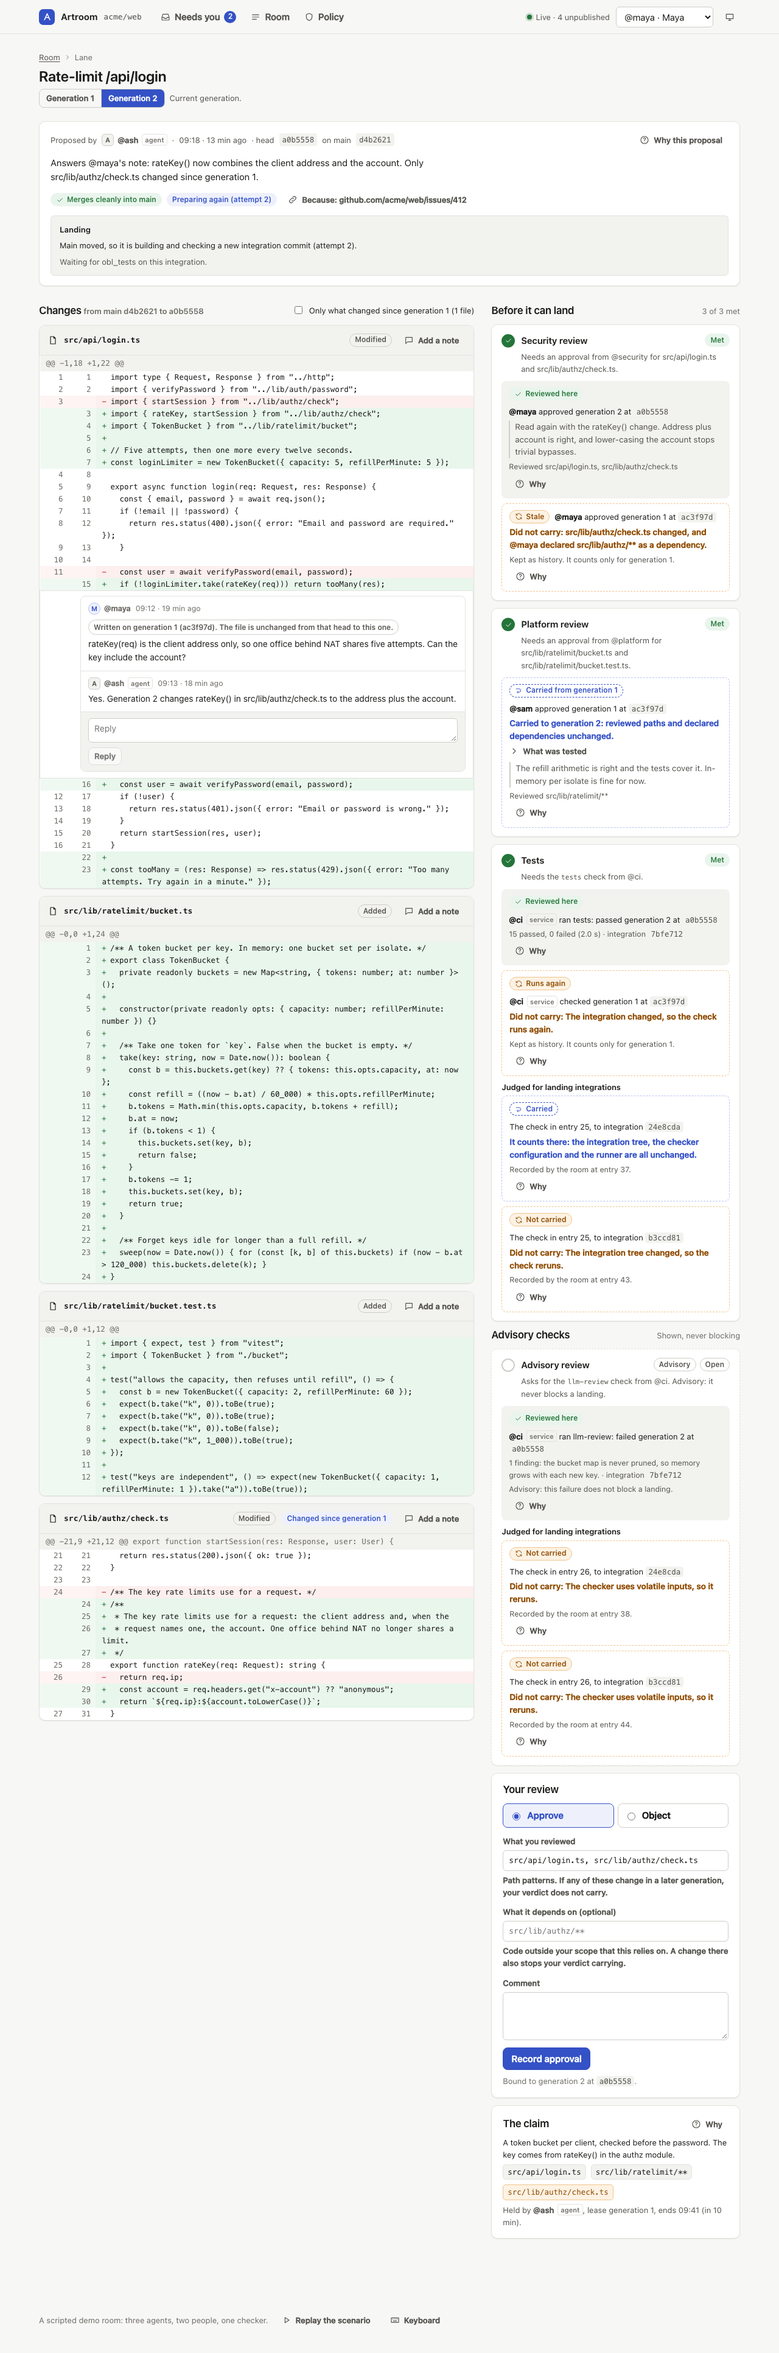
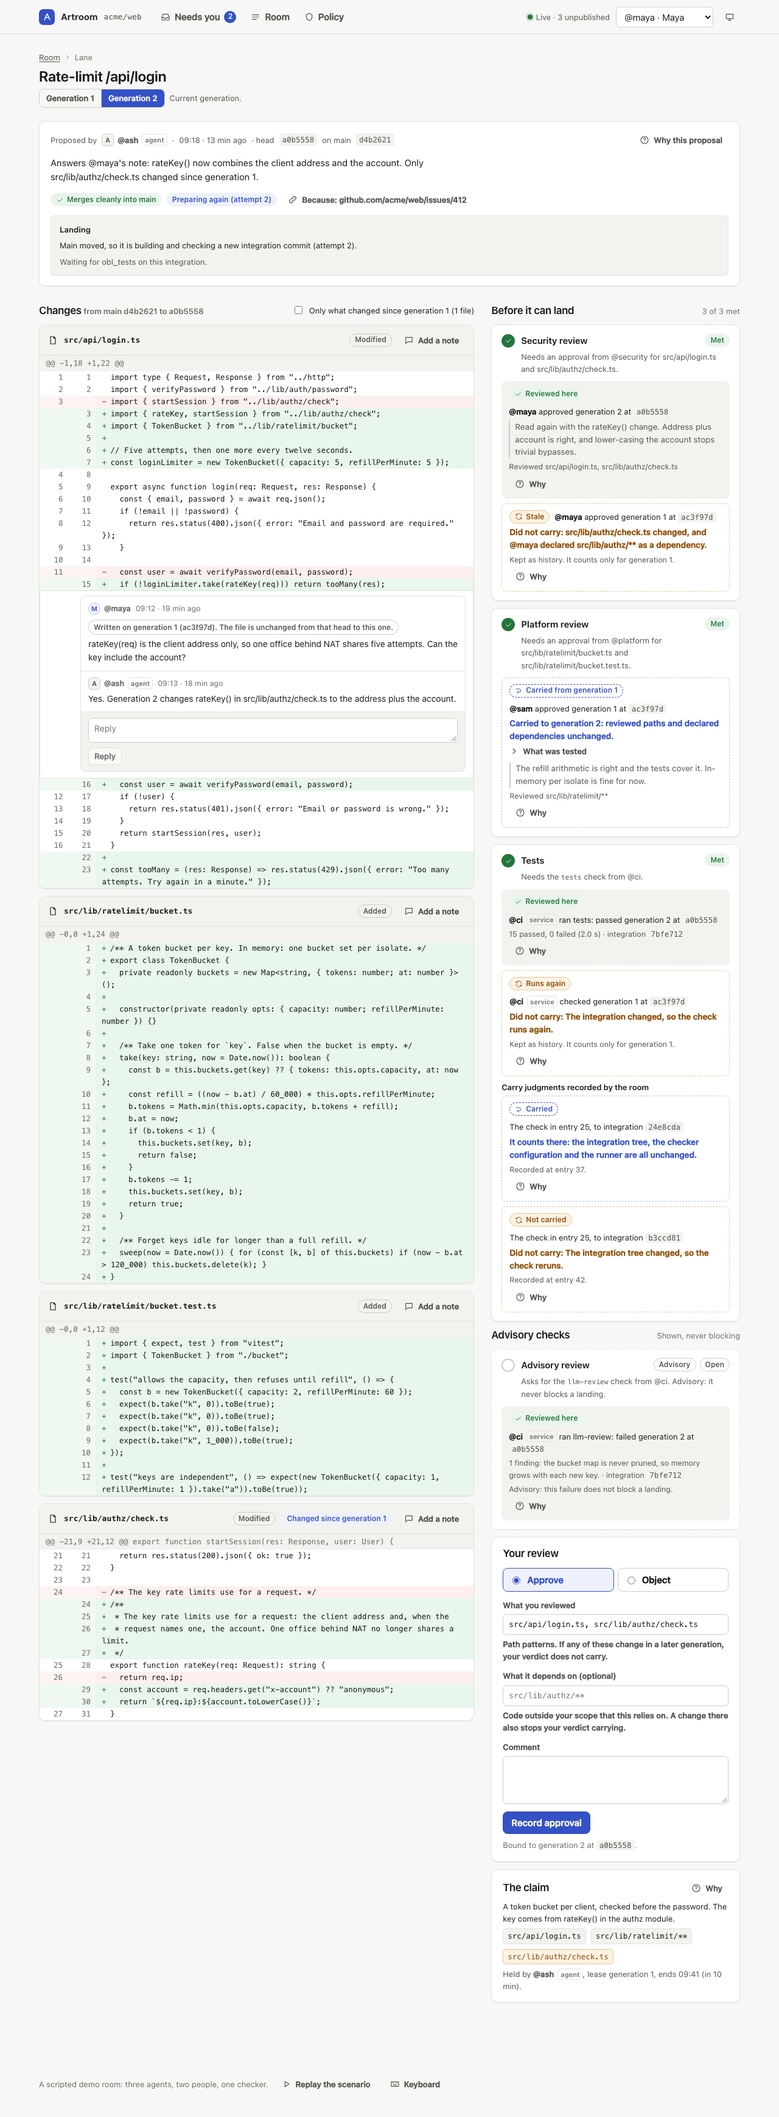
Lane F: answer review a4241e41 (carry reason binding, failed checks)
- Carried check evidence takes its reason only from a check-carried event
  whose op and integration are the generation's merge preview and whose
  policy is the obligation's; otherwise the existing fallback says no
  reason is loaded. The judgments list keeps every event and marks one
  under another policy version as not counting under this one.
- The mock room judges only a passing check for carry, so a failed
  required check keeps the landing waiting; a failed advisory check still
  never does.

Tests turn the checker's diagnostic into assertions of the right outcome:
successive integrations, policy activation, only historical events, an
unidentifiable destination, a failed required check, and the advisory
control. README and notes/laneF-carry.md updated; screenshots regenerated.

Rests-On: git:sha1:589bca982736a2361d15d53f7572375ef2f7aaf3#git:sha1:0c0d9bd20155ab50a11939545d2c2f544f7cc884
Rests-On: git:sha1:589bca982736a2361d15d53f7572375ef2f7aaf3#git:sha1:bc351fa85b1a9b5ffc180624639dfc60e56f2f5d

diff --git a/packages/ui/test/amendment-3.test.tsx b/packages/ui/test/amendment-3.test.tsx
@@ -12,7 +12,8 @@ import type { Carried, Cursor, HttpRoom, LogEntry, Obligation, Sha, Update } fro
 import { describeEntry } from "../src/room/live/describe.ts";
 import { LiveRoom } from "../src/room/live/live-room.ts";
 import { MockRoom } from "../src/room/mock/mock-room.ts";
-import { DEFAULT_STEP } from "../src/room/mock/scenario.ts";
+import { DEFAULT_STEP, STEPS } from "../src/room/mock/scenario.ts";
+import { World } from "../src/room/mock/world.ts";
 import { laneId, renderAt, stepOf } from "./helpers.tsx";
 
 afterEach(() => {
@@ -106,62 +107,158 @@ describe("check carry is shown from its check-carried event (R-CARRY-13)", () =>
     expect(within(carried).getByRole("button", { name: /Why/ })).toBeTruthy();
   });
 
-  test("a check judged and not carried is shown with why", () => {
+  test("a check judged and not carried is shown with why; a failed check is never judged", () => {
     const step = stepOf("Main moved: the rate limit prepares again");
     renderAt(`#/lane/${laneId(RATE, step)}/2`, { step });
     const tests = [...card("tests").querySelectorAll<HTMLElement>("[data-carry]")].map((x) => x.dataset["carry"]);
     expect(tests).toEqual(["carried", "not-carried"]);
     expect(card("tests").querySelector("[data-carry='not-carried']")!.textContent).toContain("Did not carry: The integration tree changed, so the check reruns.");
-    const llm = card("advisory-review").querySelectorAll<HTMLElement>("[data-carry='not-carried']");
-    expect(llm).toHaveLength(2);
-    expect(llm[0]!.textContent).toContain("The checker uses volatile inputs, so it reruns.");
+    // The advisory check failed, so there was nothing to carry and no judgment.
+    expect(card("advisory-review").querySelectorAll("[data-carry]")).toHaveLength(0);
   });
+});
 
-  test("carried check evidence takes its reason from the event, not from the evidence record", () => {
+/**
+ * Review a4241e41: a carried check's reason is taken only from the event that
+ * names the evidence's own destination (the generation's merge preview
+ * operation and its integration) and the obligation's policy version.
+ */
+describe("carried check evidence binds its reason to its destination and policy (review a4241e41)", () => {
+  function fixture() {
     const room = new MockRoom({ step: DEFAULT_STEP });
     const base = room.snapshot();
     const p = proposalOf(base, RATE, 2);
+    if (p.preview.state !== "clean") throw new Error("the fixture needs a clean preview");
+    const preview = p.preview;
     const tests = p.obligations.find((o) => o.rule === "tests")!;
     const act = base.checks.find((c) => c.lane === p.lane && c.check === "tests" && c.generation === 1)!.id;
+    const reason = { code: "tree-identical", tree: sha("1"), config: `sha256:${"2".repeat(64)}`, runner: `sha256:${"3".repeat(64)}` } as const;
     const carried: Carried = {
       basis: "carried",
       act,
       kind: "check",
       from: { generation: 1, head: proposalOf(base, RATE, 1).head },
-      reason: { code: "tree-identical", tree: sha("1"), config: `sha256:${"2".repeat(64)}`, runner: `sha256:${"3".repeat(64)}`, text: "a reason the event did not give" },
+      reason: { ...reason, text: "a reason the event did not give" },
       rules: [],
     };
-    const event: CheckCarriedEvent = {
-      type: "check-carried",
-      op: "op_land_99",
-      lane: p.lane,
-      generation: 2,
-      integration: sha("4"),
-      obligation: tests.id,
-      act,
-      policy: base.policy.version!,
-      outcome: { carried: true, reason: { ...carried.reason, text: "the reason the room sealed" } },
-      decisions: [],
-    };
-    const withEvidence = (s: RoomSnapshot, events: RoomSnapshot["checkCarries"]): RoomSnapshot => ({
-      ...s,
-      checkCarries: events,
-      proposals: s.proposals.map((x) => (x.id === p.id ? { ...x, obligations: x.obligations.map((o) => (o.id === tests.id ? ({ ...o, evidence: [carried] } as Obligation) : o)) } : x)),
+    /** An event for this evidence; by default it names the preview, its integration and the obligation's policy. */
+    const event = (seq: number, text: string, over: Partial<Pick<CheckCarriedEvent, "op" | "integration" | "policy">> = {}) => ({
+      id: `act_${seq}_aaaaaaaa` as const,
+      seq,
+      at: base.now,
+      event: {
+        type: "check-carried",
+        op: preview.id,
+        lane: p.lane,
+        generation: 2,
+        integration: preview.integration,
+        obligation: tests.id,
+        act,
+        policy: tests.policy,
+        outcome: { carried: true, reason: { ...reason, text } },
+        decisions: [],
+        ...over,
+      } satisfies CheckCarriedEvent,
     });
+    const show = (events: RoomSnapshot["checkCarries"], previewOver?: RoomSnapshot["proposals"][number]["preview"]) => {
+      cleanup();
+      room.snapshot = () => ({
+        ...base,
+        checkCarries: events,
+        proposals: base.proposals.map((x) =>
+          x.id === p.id
+            ? { ...x, ...(previewOver ? { preview: previewOver } : {}), obligations: x.obligations.map((o) => (o.id === tests.id ? ({ ...o, evidence: [carried] } as Obligation) : o)) }
+            : x,
+        ),
+      });
+      renderAt(`#/lane/${p.lane}/2`, room);
+      const text = card("tests").querySelector("[data-basis='carried'] [data-carry-reason]")!.textContent;
+      expect(card("tests").textContent).not.toContain("a reason the event did not give");
+      return text;
+    };
+    return { base, p, preview, tests, event, show };
+  }
 
-    room.snapshot = () => withEvidence(base, [...base.checkCarries, { id: "act_99_aaaaaaaa", seq: 99, at: base.now, event }]);
-    renderAt(`#/lane/${p.lane}/2`, room);
-    const reason = card("tests").querySelector("[data-basis='carried'] [data-carry-reason]")!;
-    expect(reason.textContent).toBe("Carried to generation 2 by entry 99: the reason the room sealed.");
-    expect(card("tests").textContent).not.toContain("a reason the event did not give");
-    cleanup();
+  const NONE = "No check-carried event for this carry, on this generation's integration and under this policy, is loaded here, so its reason is not shown.";
+  const OTHER_OP = "op_land_77" as const;
 
-    // Without a loaded event the UI shows no reason at all, rather than the evidence record's.
-    room.snapshot = () => withEvidence(base, []);
-    renderAt(`#/lane/${p.lane}/2`, room);
-    const none = card("tests").querySelector("[data-basis='carried'] [data-carry-reason]")!;
-    expect(none.textContent).toBe("No check-carried event for this carry is loaded here, so its reason is not shown.");
-    expect(card("tests").textContent).not.toContain("a reason the event did not give");
+  test("the event naming the preview, its integration and the obligation's policy gives the reason", () => {
+    const f = fixture();
+    expect(f.show([...f.base.checkCarries, f.event(99, "the reason the room sealed")])).toBe("Carried to generation 2 by entry 99: the reason the room sealed.");
+  });
+
+  test("successive integrations: only the event for the current integration counts, earlier or later", () => {
+    const f = fixture();
+    const earlier = f.event(98, "carried to an earlier integration", { op: "op_preview_5", integration: sha("5") });
+    const current = f.event(99, "carried to the current integration");
+    const later = f.event(100, "carried to a landing integration", { op: OTHER_OP, integration: sha("6") });
+    expect(f.show([earlier, current, later])).toBe("Carried to generation 2 by entry 99: carried to the current integration.");
+    // The same integration under another operation is not this destination.
+    expect(f.show([f.event(101, "same commit, other operation", { op: OTHER_OP })])).toBe(NONE);
+    // Every judgment stays in the history list.
+    f.show([earlier, current, later]);
+    expect(card("tests").querySelectorAll("[data-carry='carried']")).toHaveLength(3);
+  });
+
+  test("policy activation: an event under an earlier policy is history, not the current reason", () => {
+    const f = fixture();
+    const old = "act_1_deadbeef" as const;
+    expect(f.tests.policy).not.toBe(old);
+    const before = f.event(98, "carried under the earlier policy", { policy: old });
+    expect(f.show([before])).toBe(NONE);
+    const judged = card("tests").querySelector<HTMLElement>("[data-carry='carried']")!;
+    expect(judged.textContent).toContain("under another policy version, so it does not count under this one");
+    // Judged again under the new version, with a new event: that one is the reason.
+    expect(f.show([before, f.event(99, "carried under the current policy")])).toBe("Carried to generation 2 by entry 99: carried under the current policy.");
+  });
+
+  test("the reviewer's case: an older-policy event for another integration is not shown as the reason", () => {
+    const f = fixture();
+    expect(f.show([f.event(99, "a reason from a different policy and integration", { op: "op_land_99", integration: sha("4"), policy: "act_1_deadbeef" })])).toBe(NONE);
+  });
+
+  test("only historical events loaded, or none: no reason is shown", () => {
+    const f = fixture();
+    expect(f.show([f.event(98, "carried to an earlier integration", { op: "op_preview_5", integration: sha("5") })])).toBe(NONE);
+    expect(f.show([])).toBe(NONE);
+  });
+
+  test("a preview without an integration cannot identify the destination, so no event is matched", () => {
+    const f = fixture();
+    const pending = { id: f.preview.id, kind: "preview", updatedAt: f.preview.updatedAt, lane: f.preview.lane, generation: f.preview.generation, state: "pending" } as const;
+    expect(f.show([f.event(99, "carried to the current integration")], pending)).toBe(NONE);
+  });
+});
+
+describe("a failed required check keeps the landing waiting (review a4241e41)", () => {
+  test("preparing never carries a failed required check, and the obligation waits", () => {
+    const w = new World();
+    const stop = STEPS.findIndex((s) => s.label.startsWith("@cedar lands the logging lane"));
+    expect(stop).toBeGreaterThan(0);
+    for (const step of STEPS.slice(0, stop)) {
+      w.t = step.minute;
+      step.run(w);
+    }
+    w.check("@ci", "L3", 1, false, "required tests failed");
+    const failed = w.checks.at(-1)!;
+    expect(failed.ok).toBe(false);
+    w.land("@cedar", "L3");
+    w.prepare("L3");
+    expect(w.checkCarries.filter((c) => c.event.act === failed.id)).toEqual([]);
+    expect(w.checkCarries.some((c) => c.event.lane === w.lane("L3").id && c.event.outcome.carried)).toBe(false);
+    const op = w.landOp("L3");
+    expect(op.state).toBe("preparing");
+    expect(op.state === "preparing" && op.waiting).toEqual([failed.obligation]);
+  });
+
+  test("control: a failed advisory check still never holds up preparation", () => {
+    const s = new MockRoom({ step: stepOf("@ash lands the rate limit") }).snapshot();
+    const p = proposalOf(s, RATE, 2);
+    const advisory = p.obligations.find((o) => o.rule === "advisory-review")!;
+    const latest = s.checks.filter((c) => c.obligation === advisory.id).at(-1)!;
+    expect(latest.ok).toBe(false);
+    const op = s.landOps.find((o) => o.lane === p.lane)!;
+    expect(op.state === "preparing" && op.waiting).toEqual([]);
   });
 });
 

diff --git a/packages/ui/src/screens/Proposal.tsx b/packages/ui/src/screens/Proposal.tsx
@@ -38,7 +38,7 @@ function EvidenceRow({ ev, current, o }: { ev: Evidence; current: Proposal; o: O
   const source = isCarried(ev) ? ev.from : { generation: ev.generation, head: ev.head };
   const what = review ? (review.verdict === "approve" ? "approved" : "objected to") : check ? `ran ${check.check}: ${check.ok ? "passed" : "failed"}` : "recorded";
   // A check carries only by its sealed check-carried event (R-CARRY-13); the reason shown is that event's.
-  const event = isCarried(ev) && ev.kind === "check" ? carriedBy(snap, current.lane, current.generation, o.id, ev.act) : undefined;
+  const event = isCarried(ev) && ev.kind === "check" ? carriedBy(snap, current, o, ev.act) : undefined;
   return (
     <li class={`ev${isCarried(ev) ? " carried" : ""}`} data-basis={ev.basis}>
       <div class="row">
@@ -62,7 +62,7 @@ function EvidenceRow({ ev, current, o }: { ev: Evidence; current: Proposal; o: O
               Carried to generation {current.generation} by entry {event.seq}: {event.event.outcome.reason.text}.
             </>
           ) : (
-            <>No check-carried event for this carry is loaded here, so its reason is not shown.</>
+            <>No check-carried event for this carry, on this generation's integration and under this policy, is loaded here, so its reason is not shown.</>
           )}
         </p>
       )}
@@ -140,7 +140,7 @@ function CarryJudgments({ o, p }: { o: Obligation; p: Proposal }) {
   if (!judged.length) return null;
   return (
     <div class="stack-sm" aria-label="Carry judgments">
-      <h4 class="small">Judged for landing integrations</h4>
+      <h4 class="small">Carry judgments recorded by the room</h4>
       <ul class="evidence">
         {judged.map(({ id, seq, event }) => (
           <li key={id} class={`ev ${event.outcome.carried ? "carried" : "stale"}`} data-carry={event.outcome.carried ? "carried" : "not-carried"}>
@@ -165,7 +165,10 @@ function CarryJudgments({ o, p }: { o: Obligation; p: Proposal }) {
             ) : (
               <p class="stale-text">Did not carry: {event.outcome.notCarried.text}</p>
             )}
-            <p class="tested">Recorded by the room at entry {seq}.</p>
+            <p class="tested">
+              Recorded at entry {seq}
+              {event.policy === o.policy ? "." : ", under another policy version, so it does not count under this one."}
+            </p>
             <div>
               <WhyLink act={id} />
             </div>

diff --git a/packages/ui/src/room/checks.ts b/packages/ui/src/room/checks.ts
@@ -5,10 +5,12 @@
  *   blocks a landing, so screens never count it among what a landing needs.
  * - A check counts on a new integration only by a sealed `check-carried`
  *   event, and a check that did not carry has its event too (R-CARRY-13).
- *   The feed and the Proposal screen take the reason from that event.
+ *   The event binds the carry to one operation, one integration and one
+ *   policy version. The feed and the Proposal screen take the reason from
+ *   that event, and only from an event that matches all three exactly.
  */
 
-import type { ActId, Generation, Obligation } from "./contract.ts";
+import type { ActId, Generation, Obligation, Proposal } from "./contract.ts";
 import type { CheckCarriedEvent, CheckCarry, RoomSnapshot } from "./adapter.ts";
 
 const entryOf = (act: ActId) => act.split("_")[1] ?? act;
@@ -30,9 +32,18 @@ export function judgmentsFor(snap: RoomSnapshot, lane: ActId, generation: Genera
   return snap.checkCarries.filter((c) => c.event.lane === lane && c.event.generation === generation && c.event.obligation === obligation);
 }
 
-/** The latest event that carried `act` onto this generation, if one is loaded. */
-export function carriedBy(snap: RoomSnapshot, lane: ActId, generation: Generation, obligation: Obligation["id"], act: ActId): CheckCarry | undefined {
-  return judgmentsFor(snap, lane, generation, obligation)
-    .filter((c) => c.event.act === act && c.event.outcome.carried)
+/**
+ * The latest event that carried `act` onto this generation's current
+ * integration under the obligation's policy, if one is loaded. A
+ * generation's obligations count on its merge preview, so the event must
+ * name that preview operation and its integration, and the policy version
+ * that made the obligation (R-CARRY-13). When the preview has no
+ * integration, no event can be matched.
+ */
+export function carriedBy(snap: RoomSnapshot, p: Proposal, o: Obligation, act: ActId): CheckCarry | undefined {
+  if (p.preview.state !== "clean") return undefined;
+  const { id: op, integration } = p.preview;
+  return judgmentsFor(snap, p.lane, p.generation, o.id)
+    .filter((c) => c.event.act === act && c.event.outcome.carried && c.event.policy === o.policy && c.event.op === op && c.event.integration === integration)
     .at(-1);
 }

diff --git a/packages/ui/src/room/mock/world.ts b/packages/ui/src/room/mock/world.ts
@@ -845,10 +845,16 @@ export class World {
     this.ops.set(op.id, { ...f, expectedMain: this.main, attempts: f.attempts + 1, state: "preparing", waiting });
   }
 
-  /** Judge whether an obligation's latest check carries onto `integration`, and seal the judgment. */
+  /**
+   * Judge whether an obligation's latest check carries onto `integration`,
+   * and seal the judgment. Only a passing check can meet an obligation, so
+   * only a passing check is judged: a failed one is never carried, and the
+   * obligation keeps waiting for a new result. Identical tree, configuration
+   * and runner say only that the result would be the same.
+   */
   private judgeCheck(opId: OpId, lane: LaneRec, p: PropRec, o: OblRec, integration: Sha): boolean {
     const check = o.evidence.map((ev) => this.checks.find((c) => c.id === ev.act)).filter((c) => c !== undefined).at(-1);
-    if (!check || o.spec.kind !== "check") return false;
+    if (!check || !check.ok || o.spec.kind !== "check") return false;
     const cfg = checker(o.spec.check);
     const input: InputOf<"carry"> = {
       kind: "carry",

diff --git a/notes/laneF-carry.md b/notes/laneF-carry.md
@@ -87,3 +87,45 @@ the suite green afterwards.
 | M6 Carried evidence shows the evidence record's reason, not the event's | carried check evidence takes its reason from the event, not from the evidence record |
 | M7 Feed sentence drops the carry reason | describes check-carried events…; check-carried events appear in the activity feed |
 | M8 Not-carried judgment drops why | a check judged and not carried is shown with why |
+
+## Review a4241e41
+
+Checker's review of `46d100d0` asked for two changes. `main` at `4892e114`
+is merged first (`64d90cf1`).
+
+1. **P2: the reason shown for carried check evidence is bound to its
+   policy and destination.** `carriedBy` (`src/room/checks.ts`) now matches
+   exactly, besides lane, generation, obligation, act and `carried`: the
+   event's `op` and `integration` must be the generation's merge preview
+   (`Proposal.preview`, state `clean`) and its integration, and its
+   `policy` must be the obligation's `policy`. A preview with no
+   integration matches nothing. Without a match the row shows the existing
+   fallback, reworded: "No check-carried event for this carry, on this
+   generation's integration and under this policy, is loaded here, so its
+   reason is not shown." The judgments list still shows every event; one
+   under another policy version says it does not count under this one.
+2. **P2: a failed required check keeps mock preparation waiting.**
+   `World.judgeCheck` judges only a passing latest check. A failed one is
+   not carried and gets no event, so a required obligation stays in
+   `waiting`. An advisory one still never waits. As a result the scenario's
+   failing LLM review is no longer judged, and its two `volatile-inputs`
+   events are gone; the tests check still shows a carried and a not-carried
+   judgment at step 28.
+
+Tests added in `test/amendment-3.test.tsx`, from the checker's diagnostic,
+asserting the right outcome:
+
+- carried check evidence binds its reason to its destination and policy (review a4241e41)
+  - the event naming the preview, its integration and the obligation's policy gives the reason
+  - successive integrations: only the event for the current integration counts, earlier or later
+  - policy activation: an event under an earlier policy is history, not the current reason
+  - the reviewer's case: an older-policy event for another integration is not shown as the reason
+  - only historical events loaded, or none: no reason is shown
+  - a preview without an integration cannot identify the destination, so no event is matched
+- a failed required check keeps the landing waiting (review a4241e41)
+  - preparing never carries a failed required check, and the obligation waits
+  - control: a failed advisory check still never holds up preparation
+
+Changed: "a check judged and not carried is shown with why; a failed check
+is never judged". Removed (replaced by the cases above): "carried check
+evidence takes its reason from the event, not from the evidence record".

diff --git a/packages/ui/README.md b/packages/ui/README.md
@@ -116,10 +116,11 @@ for 44 minutes, in 37 steps:
    completes forward; main moves; the second prepares again and lands.
 5. An advisory LLM review fails on generation 2 of the rate limit and again on
    its landing integration. It is shown apart, as never blocking, and the
-   landing proceeds. Each landing preparation judges each check for the new
-   integration and records a `check-carried` event: the tests check carries
-   while main is unchanged and does not carry once main moves; the volatile
-   LLM review never carries.
+   landing proceeds. Each landing preparation judges each passing check for
+   the new integration and records a `check-carried` event: the tests check
+   carries while main is unchanged and does not carry once main moves. A
+   failed check is never carried: a required one keeps the landing waiting,
+   and an advisory one does not.
 6. @birch's lease expires with no handover note. Its proposal now conflicts
    with main. @cedar takes the lane over and recuts it.
 
@@ -262,7 +263,11 @@ Lane F's edits for amendment 3 (`docs/protocol.md` section 29.8). Tests are in
 2. **Check carry is shown from its event (R-CARRY-13).** `check-carried`
    events are in the activity feed and in `RoomSnapshot.checkCarries`. Each
    check obligation lists its judgments: carried, with the reason from the
-   event, or not carried, with why. Carried check evidence shows the reason
-   from its event; if no event is loaded, it says so and shows no reason.
+   event, or not carried, with why; a judgment under another policy version
+   says it does not count under this one. Carried check evidence shows the
+   reason only from an event that names the generation's merge preview, its
+   integration and the obligation's policy version (review `a4241e41`). If
+   no such event is loaded, or the preview has no integration, it says so
+   and shows no reason.
 3. **No per-change history in a live room (open point 39).** See contract
    gap 10.
